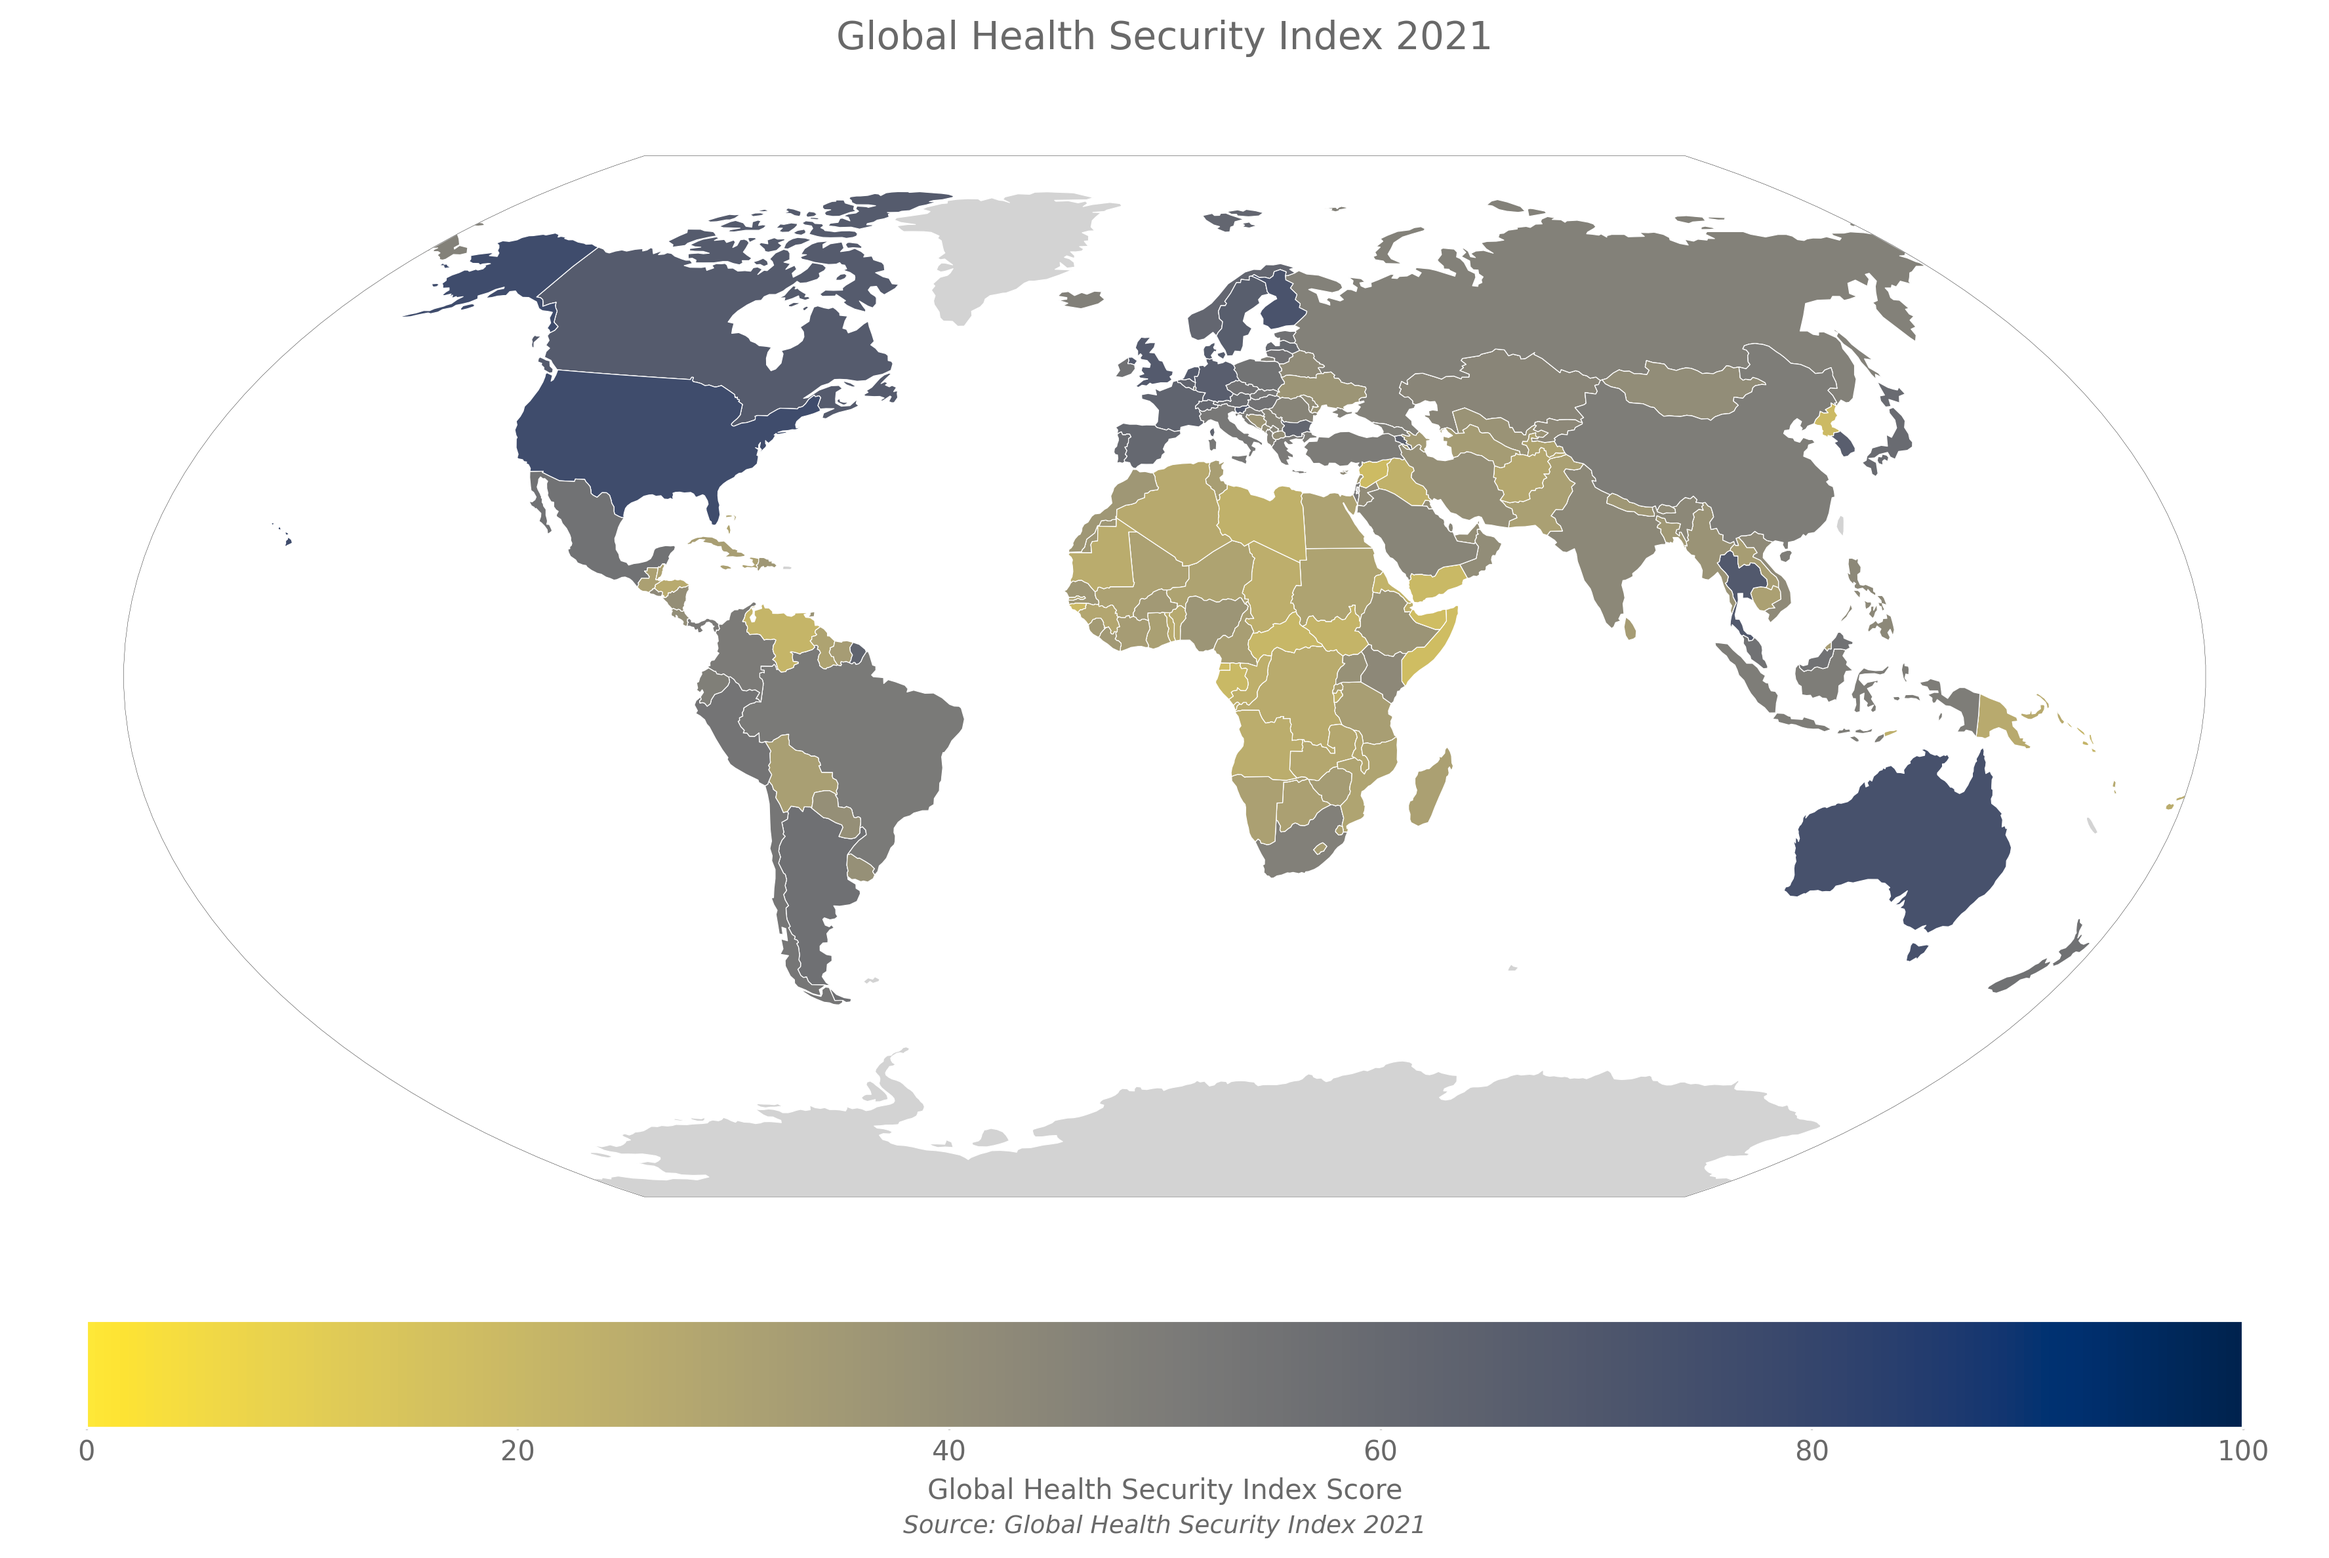
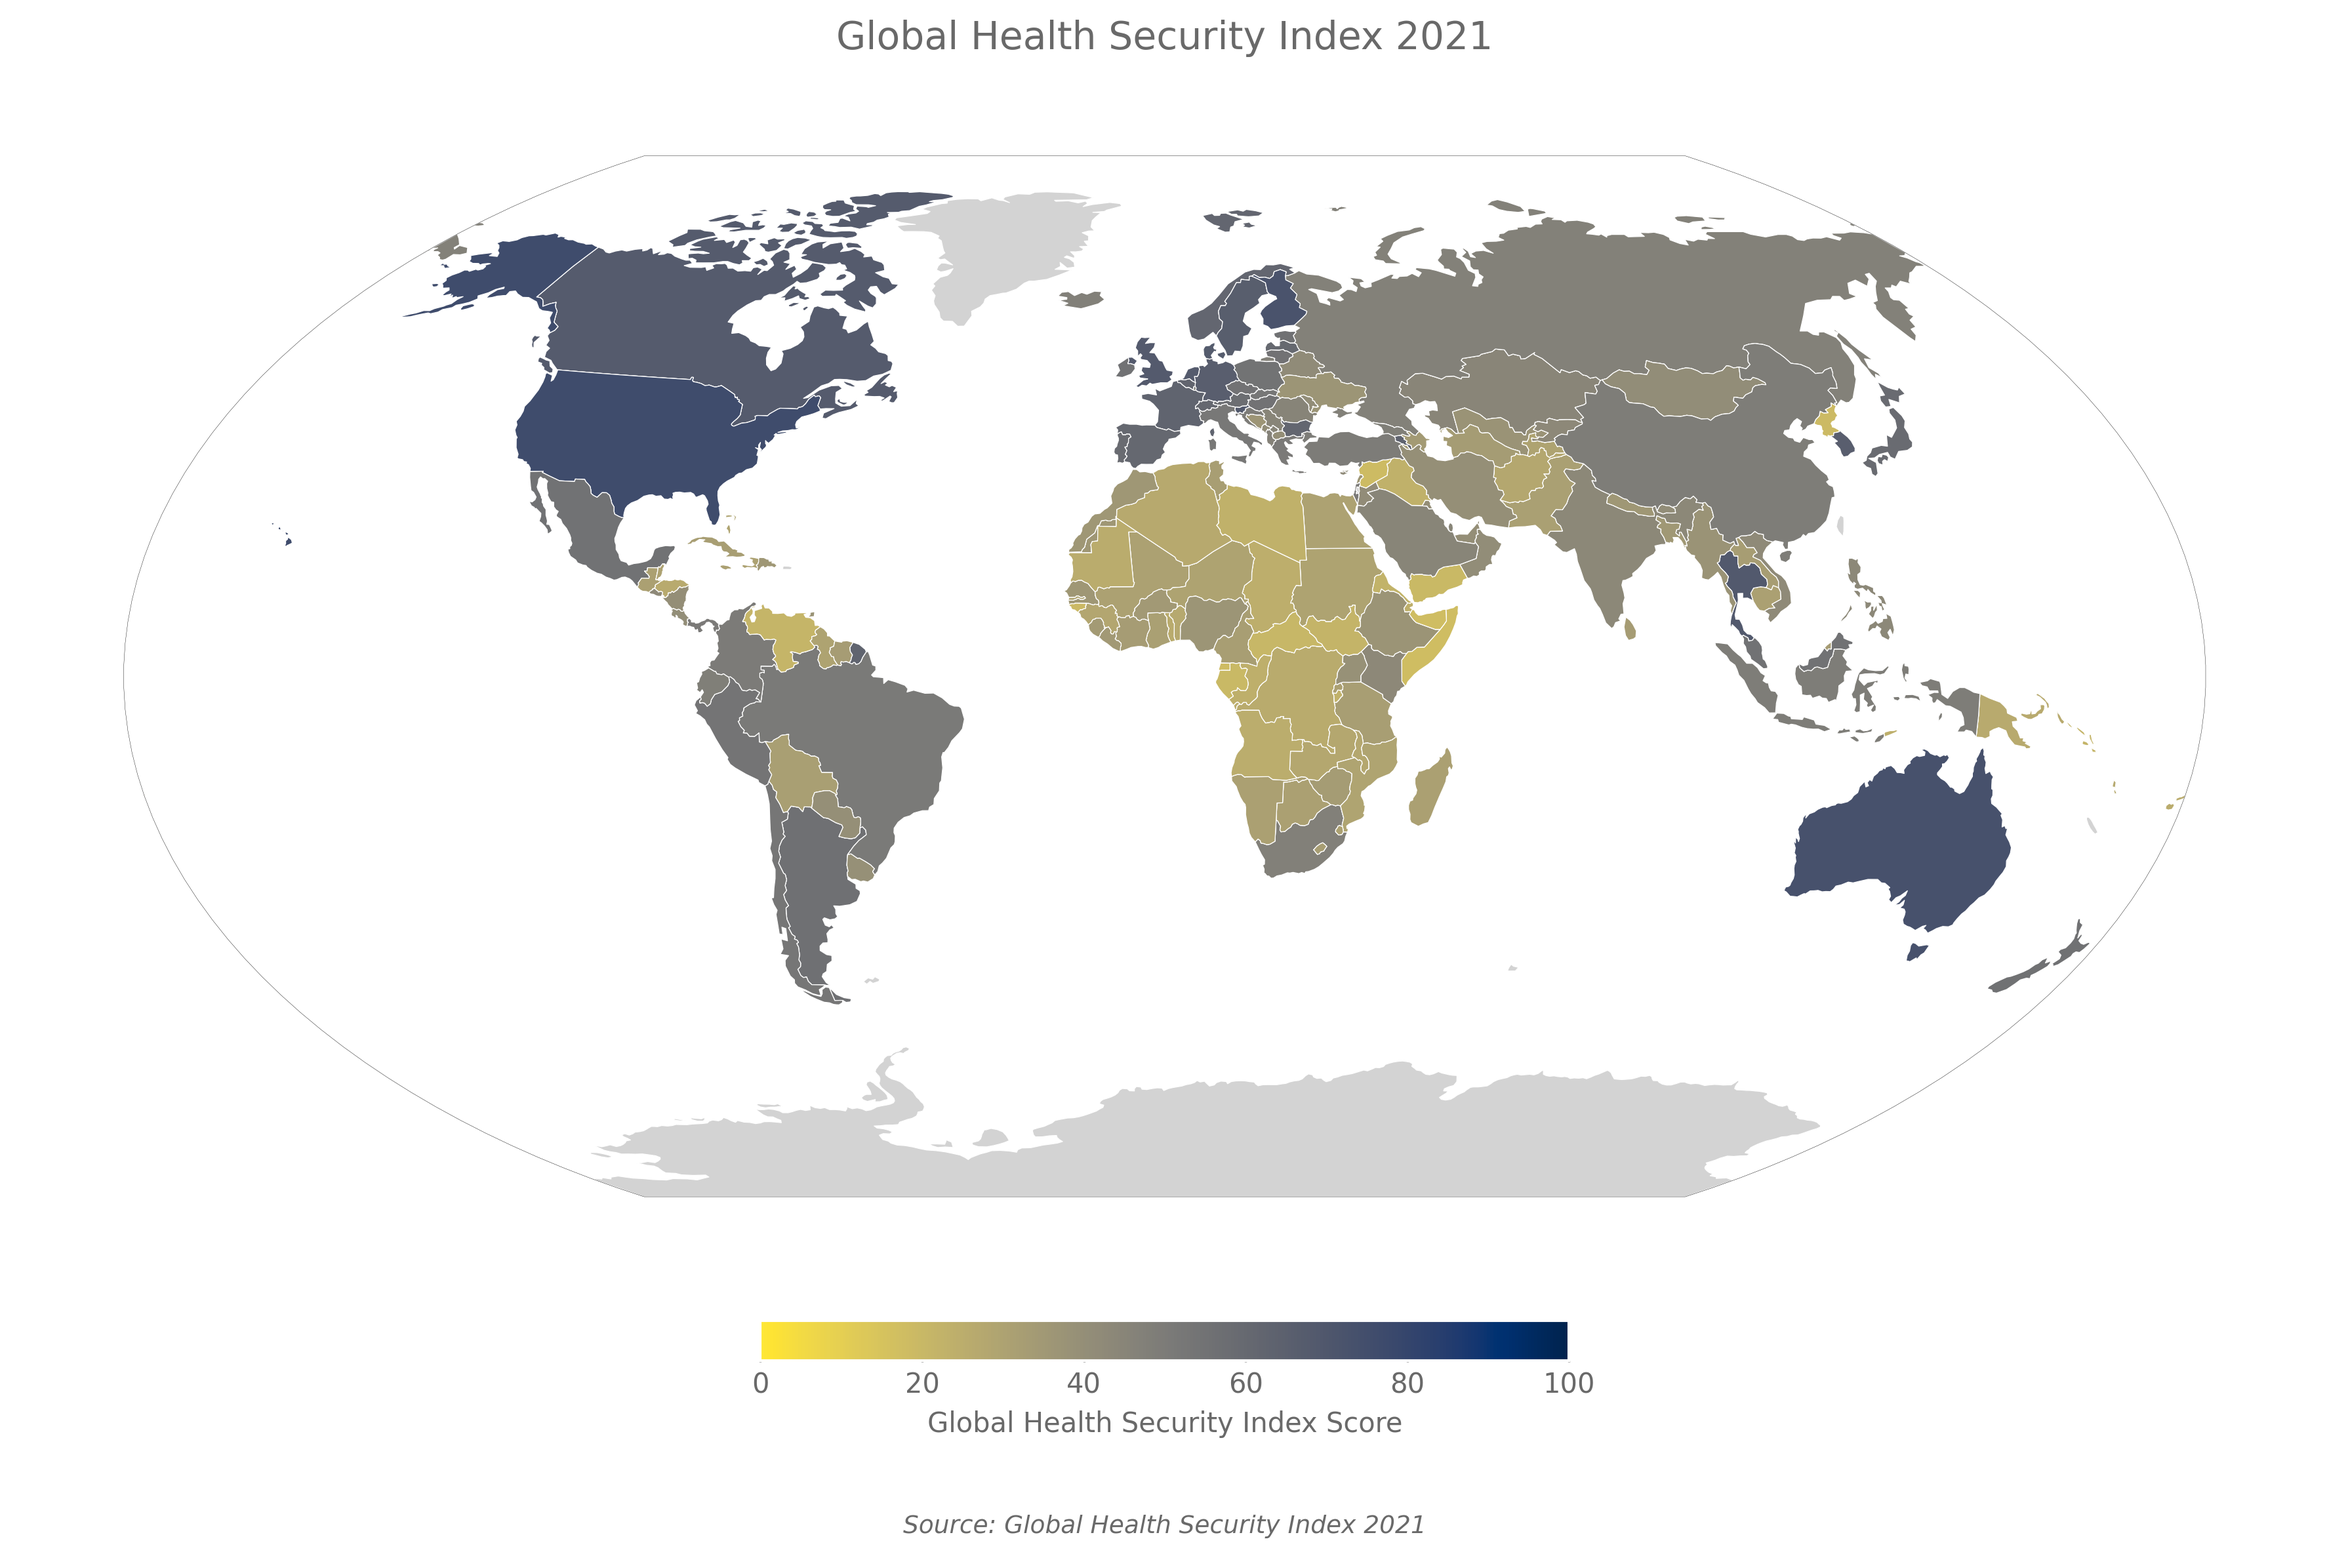
made colorbar smaller

Changed region(s): [[0.031, 0.8409, 0.9603, 0.9655]]

diff --git a/src/plot_GHS.py b/src/plot_GHS.py
@@ -120,7 +120,7 @@ world_ghs.plot(
     legend_kwds={
         'label': 'Global Health Security Index Score',
         'orientation': 'horizontal',
-        'shrink': 0.8,
+        'shrink': 0.3,
         'pad': 0.05
     }
 )
